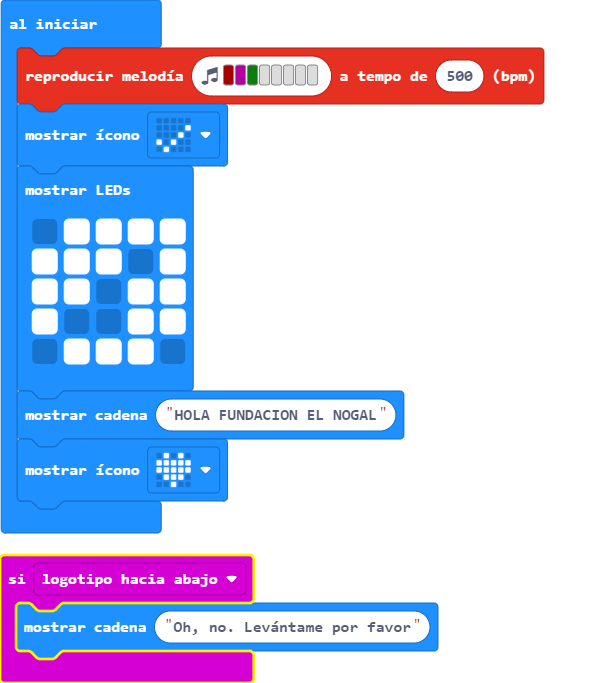
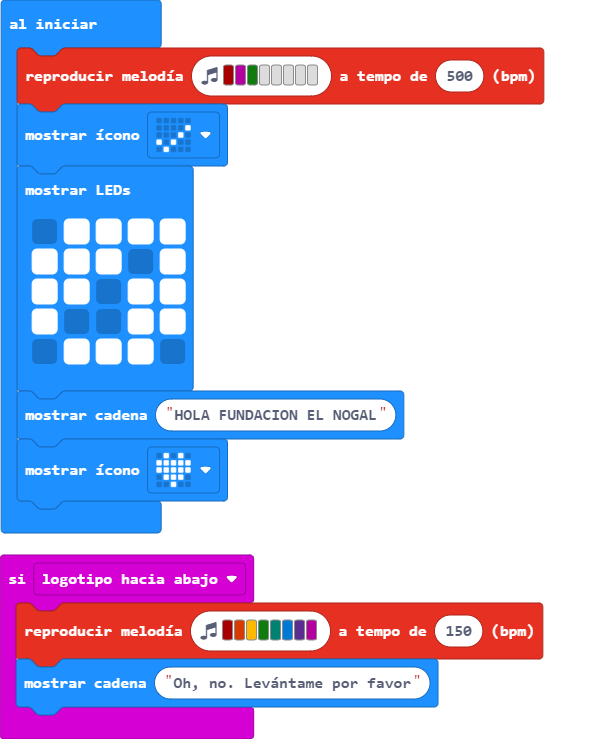
Sonido caida

Changed region(s): [[0.0, 0.0307, 0.9362, 1.0], [0.0, 0.0307, 0.0302, 0.0615]]

diff --git a/main.ts b/main.ts
@@ -1,4 +1,5 @@
 input.onGesture(Gesture.LogoDown, function () {
+    music.playMelody("C5 B A G F E D C ", 150)
     basic.showString("Oh, no. Levántame por favor")
 })
 music.playMelody("C5 C G - - - - - ", 500)
